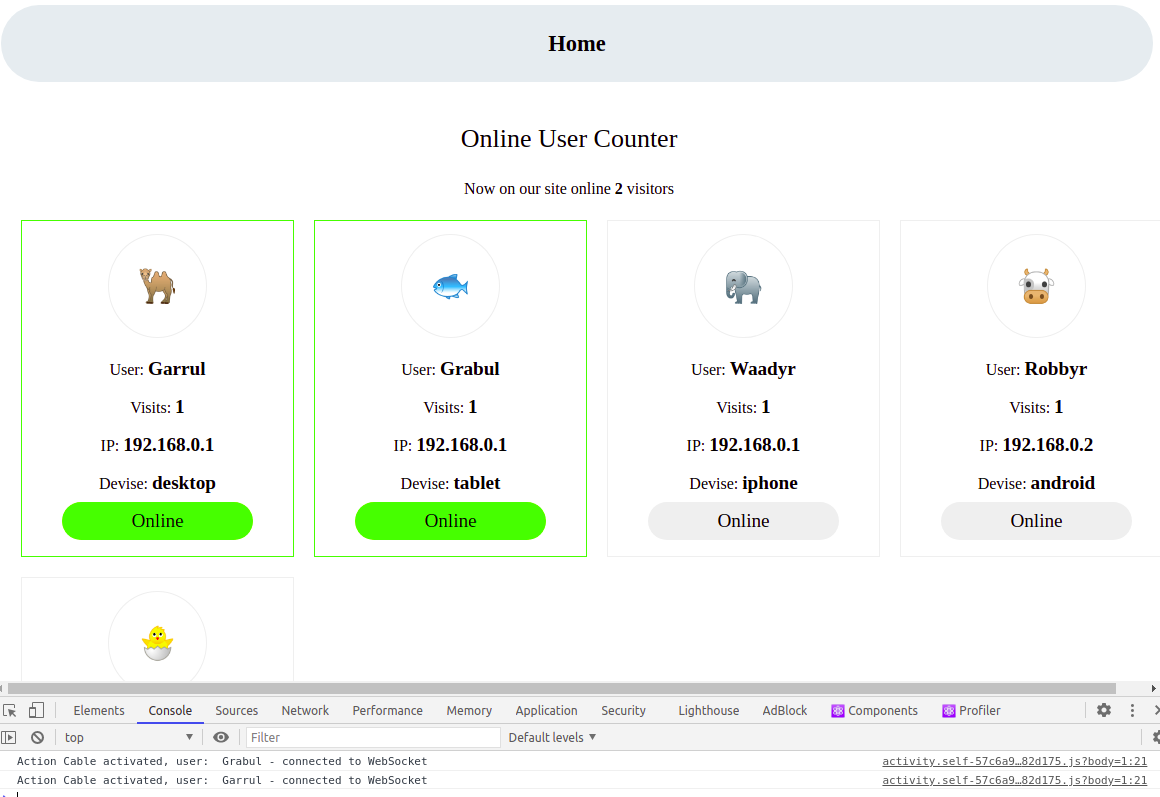
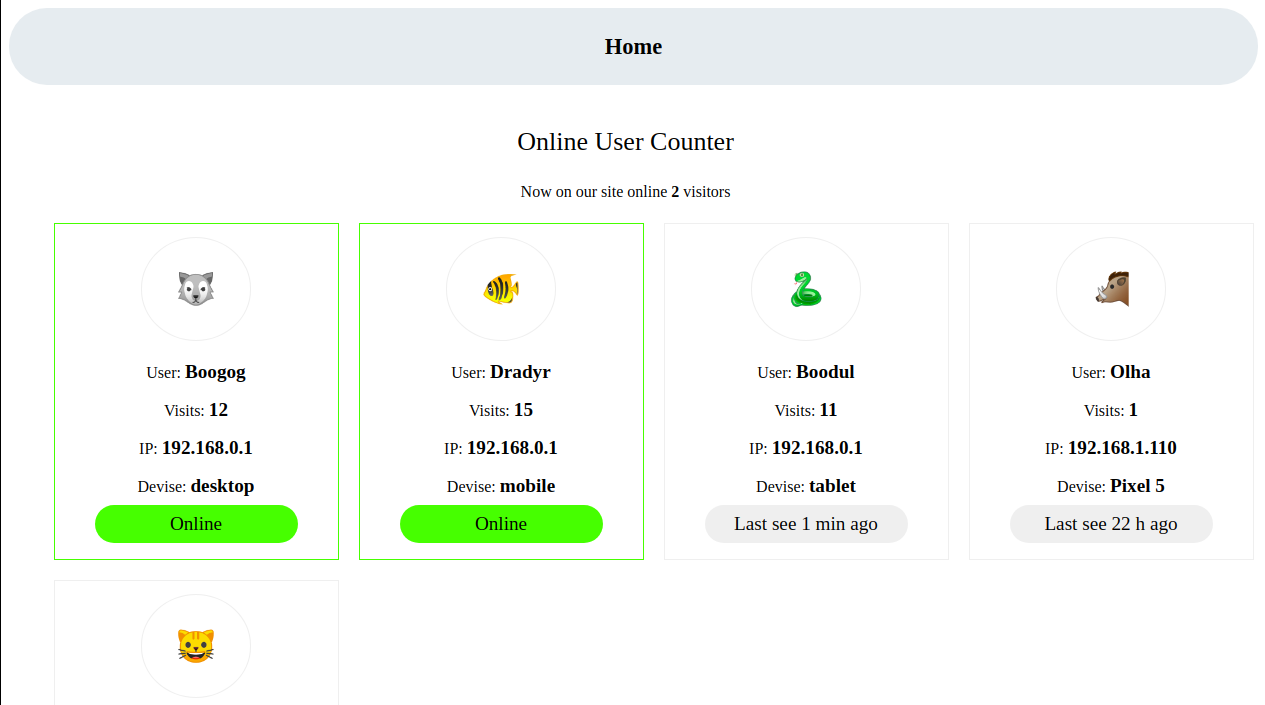
fix counter in subhead, refactor activiti js, update README

diff --git a/app/assets/javascripts/channels/activity.js b/app/assets/javascripts/channels/activity.js
@@ -1,11 +1,11 @@
 App.activity = App.cable.subscriptions.create("ActivityChannel", {
 
   connected: function() {
-    this.perform("appear")
+    this.perform("appear");
   },
-
-  disconnected: function() {
-    document.location.reload();
+  
+  unsubscribed: function() {
+    this.perform("unsubscribed");
   },
 
   appear: function(){
@@ -13,24 +13,27 @@ App.activity = App.cable.subscriptions.create("ActivityChannel", {
 
   received: function(data) {
     
-    let userName = data.user_name;
     let eventType = data.status;
-
+    let onlineUsers = data.users;
     setTimeout(() => {
-      if (eventType == 'online'){
-        this.change_counter(+1);
-        this.change_card_style(userName, "#8eff00", "Online")
-      } else {
-        this.change_counter(-1);
-        this.change_card_style(userName, "#efefef", "Offline")
-      }
+      onlineUsers.forEach(user => {
+      if (user.online && eventType == 'online'){
+        this.change_counter(onlineUsers.length, true);
+        this.change_card_style(user.name, "#8eff00", "Online")
+        }
+      else if (document.querySelector(`#${user.name} div:last-child a`).text == 'Online') {
+        this.change_counter(onlineUsers.length, false);
+        this.change_card_style(user.name, "#efefef", "Offline")
+        }
+      });
     }, 1000);
     
   },
 
-  change_counter(new_score){
-    let old_score = Number(document.querySelector(`div #user_counter`).innerHTML);
-    document.querySelector(`div #user_counter`).innerHTML = old_score + new_score;
+  change_counter(score, userAdded){
+    const oldScore = Number(document.querySelector(`div #user_counter`).innerHTML);
+    const newScore = userAdded ? score : oldScore - 1;
+    document.querySelector(`div #user_counter`).innerHTML = newScore;
   },
 
   change_card_style(userName, color, status){

diff --git a/app/javascript/components/Users/User.js b/app/javascript/components/Users/User.js
@@ -38,7 +38,7 @@ const User = (props) =>{
   const {name, ip_address, device, emoji, last_seen_at, visits, online} = props.attributes.attributes;
   const time_in_minutes = Math.round((date_in_seconds - last_seen_at)/60);
 
-  const status = online || time_in_minutes < 1 ? `Online` : `Last see ${get_time_in_words(time_in_minutes)} ago`;
+  const status = online ? `Online` : `Last see ${get_time_in_words(time_in_minutes, last_seen_at)} ago`;
   const link_border =  online ? "#8eff00" : "#efefef";
   return (
     <Card color={link_border} id={name}>
@@ -54,8 +54,10 @@ const User = (props) =>{
   )
 }
 
-function get_time_in_words(time){
-  if (time < 60)
+function get_time_in_words(time, last_seen_at){
+  if (time == 0)
+    return  Math.round(date_in_seconds - last_seen_at) + " sec";
+  else if (time < 60)
     return time + " min"
   else if (time < 60 * 24)
     return Math.round(time / 60) + " h";

diff --git a/app/models/user.rb b/app/models/user.rb
@@ -12,7 +12,8 @@ class User < ApplicationRecord
   validates :device, presence: true
 
   scope :filter_by_online, -> { order('last_seen_at').reverse_order }
-  scope :online, -> { where("last_seen_at > ?", Time.now.to_i - DEFAULT_TIME) }
+  scope :online, -> { where(online: true) }
+  scope :offline, -> { where(online: false) }
   
   def update_visits
     user_online? ? self.visits = self.visits + 1 : self.visits
@@ -28,12 +29,10 @@ class User < ApplicationRecord
   end
 
   def appear
-    self.update(online: true)
     ActionCable.server.broadcast "ActivityChannel", {event: 'connected', user_name: self.name}
   end
 
   def away
-    self.update(online: false)
     ActionCable.server.broadcast "ActivityChannel", {event: 'unsubscribed', user_name: self.name}
   end
   self.per_page = 16

diff --git a/app/channels/activity_channel.rb b/app/channels/activity_channel.rb
@@ -1,15 +1,18 @@
 class ActivityChannel < ApplicationCable::Channel
+
   def subscribed
     stream_from "activity_channel"
   end
  
   def unsubscribed
     current_user.away
-    ActionCable.server.broadcast "activity_channel", user_name: current_user.name, status: 'offline'
+    current_user.update(online: false)
+    ActionCable.server.broadcast "activity_channel", status: 'offline', users: User.all.offline
   end
- 
+  
   def appear
     current_user.appear
-     ActionCable.server.broadcast "activity_channel", user_name: current_user.name, status: 'online'
+    current_user.update(online: true)
+    ActionCable.server.broadcast "activity_channel", status: 'online', users: User.all.online
   end
 end

diff --git a/app/channels/application_cable/connection.rb b/app/channels/application_cable/connection.rb
@@ -9,7 +9,7 @@ module ApplicationCable
     private
 
     def find_verified_user
-      if verified_user = User.find_by(id: cookies.encrypted[:_count_online_users_session]["current_user_id"])
+      if verified_user = User.find_by(id: cookies.encrypted[:_count_online_users_session]["user_id"])
         verified_user
       else
         reject_unauthorized_connection

diff --git a/app/controllers/api/v1/users_controller.rb b/app/controllers/api/v1/users_controller.rb
@@ -45,7 +45,7 @@ module Api
         else
           current_user = User.create(name: user_name, device: device_name, ip_address: ip_addr)
         end
-        session['current_user_id'] = current_user.id
+        session['user_id'] = current_user.id
       end
 
       def device_name

diff --git a/README.md b/README.md
@@ -1,7 +1,7 @@
 <h1 align="center"> Count Online Users </h1> <br>
 <br/>
 <p align="center">
-  Count Online Users - tracks whether a user is online or not(has opened webpage in browser), showing a green button "Online" at the user card and changes the users counter at the subheader. Built with RoR and React framework, deployed to Heroku.
+  Count Online Users - tracks whether a user is online or not(has opened webpage in browser), showing a green button "Online" at the user card and changes the users counter at the subheader. Grey button with status "Online" if the user has been on site less than a minute ago. Built with RoR and React framework, deployed to Heroku.
 
   <img src="public/index.png">
 </p>
